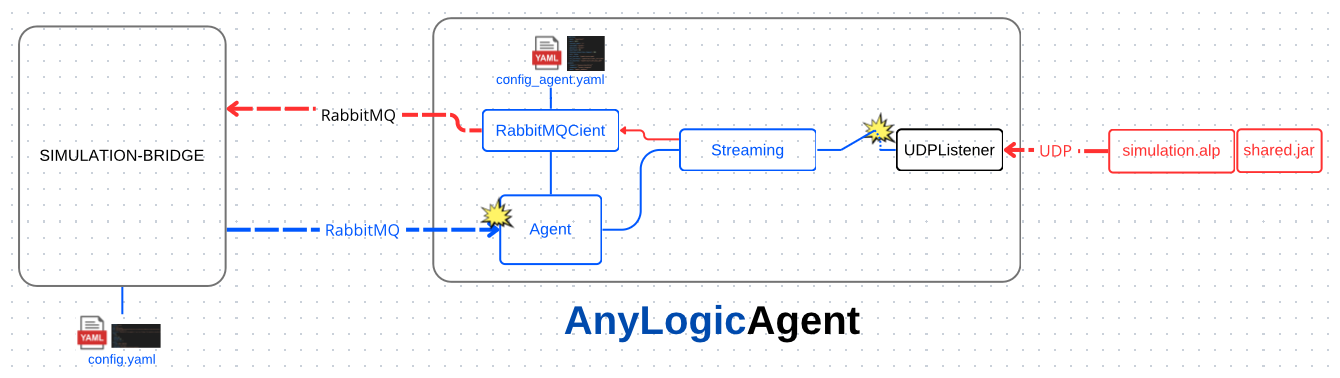
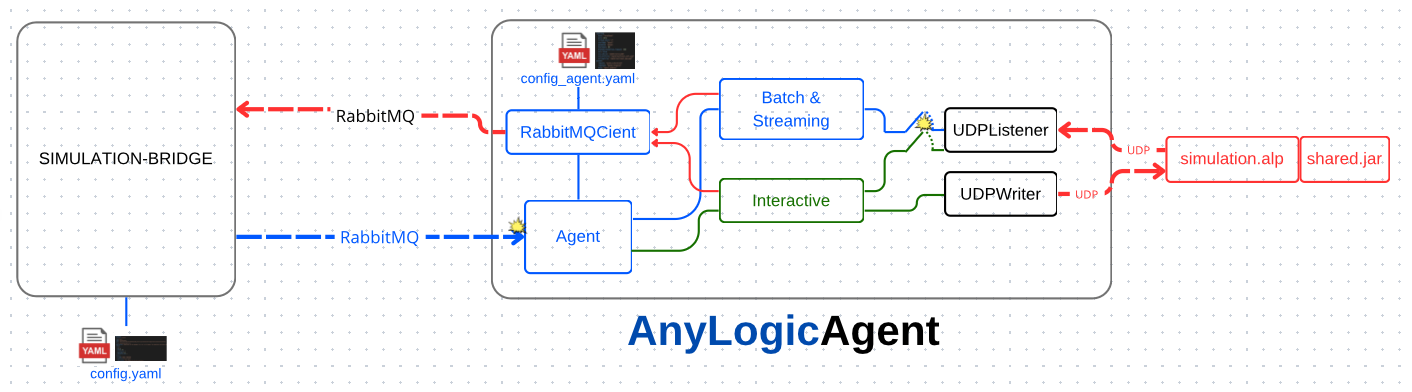
style and documentation

diff --git a/agents/anylogic/anylogic_agent/src/core/UDPwriter.py b/agents/anylogic/anylogic_agent/src/core/UDPwriter.py
@@ -29,8 +29,10 @@ class Writer:
         on_complete: Optional[Callable[[str], None]] = None,
     ) -> None:
         udp_cfg = (config.get('udp', {}) or {})
-        self.host = host if host is not None else udp_cfg.get('host', 'localhost')
-        self.input_port = input_port if input_port is not None else int(udp_cfg.get('input_port', 9877))
+        self.host = host if host is not None else udp_cfg.get(
+            'host', 'localhost')
+        self.input_port = input_port if input_port is not None else int(
+            udp_cfg.get('input_port', 9877))
         self._stop_event = threading.Event()
         self._ready_event = threading.Event()
         self._sock: Optional[socket.socket] = None
@@ -88,7 +90,7 @@ class Writer:
                 self.request_id,
             )
             self._ready_event.set()
-            
+
             def callback(ch, method, properties, body):
                 msg = yaml.safe_load(body)
                 self._send_udp(sock, msg)
@@ -102,14 +104,16 @@ class Writer:
                     msg,
                 )
 
-            channel.basic_consume(queue=command_queue, on_message_callback=callback)
+            channel.basic_consume(
+                queue=command_queue,
+                on_message_callback=callback)
             try:
                 channel.start_consuming()
             except (KeyboardInterrupt, EOFError):
-                    logger.info("Stopped by user.")
-                    channel.stop_consuming()
-                    connection.close()
-                    self.stop()
+                logger.info("Stopped by user.")
+                channel.stop_consuming()
+                connection.close()
+                self.stop()
 
     def wait_until_ready(self, timeout: float = 5.0) -> bool:
         """Wait until the socket is ready to send."""

diff --git a/agents/anylogic/anylogic_agent/src/core/interactive.py b/agents/anylogic/anylogic_agent/src/core/interactive.py
@@ -161,7 +161,8 @@ def handle_interactive_simulation(
     listener_thread.start()
 
     # Wait for both to be ready
-    if not writer.wait_until_ready(timeout=5.0) or not listener.wait_until_ready(timeout=5.0):
+    if not writer.wait_until_ready(
+            timeout=5.0) or not listener.wait_until_ready(timeout=5.0):
         writer.stop()
         listener.stop()
         writer_thread.join(timeout=2)
@@ -251,5 +252,6 @@ def _complete_interactive_session(request_id: str) -> None:
     """Finish an interactive session when the writer or listener signals completion."""
     with _SESSIONS_LOCK:
         session = _ACTIVE_SESSIONS.pop(request_id, None)
-    if session and threading.current_thread() is not session.writer_thread and threading.current_thread() is not session.listener_thread:
+    if session and threading.current_thread(
+    ) is not session.writer_thread and threading.current_thread() is not session.listener_thread:
         session.stop()

diff --git a/agents/anylogic/anylogic_agent/src/main.py b/agents/anylogic/anylogic_agent/src/main.py
@@ -94,7 +94,7 @@ def generate_default_project():
         'client/use_anylogic_agent_streaming.py': (ANYLOGIC_AGENT_RESOURCES,
                                                    'use_anylogic_agent_streaming.py'),
         'client/use_anylogic_agent_interactive.py': (ANYLOGIC_AGENT_RESOURCES,
-                                                   'use_anylogic_agent_interactive.py'),
+                                                     'use_anylogic_agent_interactive.py'),
         'client/use.yaml': (ANYLOGIC_AGENT_RESOURCES,
                             'use.yaml.template'),
         'client/simulation.yaml': (ANYLOGIC_AGENT_API,

diff --git a/agents/anylogic/anylogic_agent/resources/use_anylogic_agent_interactive.py b/agents/anylogic/anylogic_agent/resources/use_anylogic_agent_interactive.py
@@ -209,6 +209,13 @@ async def main() -> None:
     client = InteractiveUsageAnylogicAgent("dt", "anylogic", rabbit_cfg)
 
     request_id = str(uuid.uuid4())  # Unique request ID for this simulation
+
+    # Ensure the simulation type is 'interactive'
+    simulation_type = payload["simulation"]["type"]
+    if simulation_type != "interactive":
+        raise ValueError(
+            f"Simulation type must be 'interactive', got '{simulation_type}'")
+
     # Input stream source (RabbitMQ URL)
     stream_source = payload["simulation"]["inputs"]["stream_source"]
     # Extract the routing key for the stream

diff --git a/agents/anylogic/anylogic_agent/src/core/UDPlistener.py b/agents/anylogic/anylogic_agent/src/core/UDPlistener.py
@@ -28,7 +28,8 @@ class Listener:
         udp_cfg = (config.get('udp', {}) or {})
         self.host = host if host is not None else udp_cfg.get(
             'host', 'localhost')
-        self.output_port = output_port if output_port is not None else int(udp_cfg.get('output_port', 9876))
+        self.output_port = output_port if output_port is not None else int(
+            udp_cfg.get('output_port', 9876))
         self._stop_event = threading.Event()
         self._ready_event = threading.Event()
         self._sock: Optional[socket.socket] = None

diff --git a/agents/anylogic/anylogic_agent/docs/README.md b/agents/anylogic/anylogic_agent/docs/README.md
@@ -1,6 +1,10 @@
 # AnyLogic Simulation – Guidelines and Best Practices
 
-## Batch/Streaming Simulation
+## Batch & Streaming Simulation
+
+> The difference between **Batch** and **Streaming** simulation lies only in the output mode:  
+> Batch simulations produce a single result at the end, while Streaming simulations emit results continuously.  
+> The development and integration process is otherwise identical for both.
 
 A Streaming simulation is designed to receive a predefined input configuration at startup and continuously produce real-time outputs during execution. These outputs reflect the internal state of the simulation at each step and are made available to external systems (e.g., The Simulation Bridge) without halting the simulation.
 N.B. For AnyLogic there is no difference between Batch and Streaming simulation .
@@ -74,7 +78,7 @@ This creates a `template/` folder containing `template.alp`, `shared.jar`, and a
 Refer to the example files in the `examples/` folder:
 
 - `smart_factory/simulation.alp`
-- `smart_factory_4.0/simulation.alp`
+- `robot_golem_manufacturing/golem_simulation.alp`
   These files provide reference implementations to help you structure your simulation logic.
 
 ### Existing Simulations integration
@@ -90,41 +94,42 @@ To integrate an existing AnyLogic simulation with the AnyLogic Agent, follow the
 
 ## Interactive Simulation
 
-### Implement your Simulation Logic
+An interactive simulation exchanges messages with the AnyLogic Agent while the model is running. This bidirectional flow lets you react to user input or external systems in real time and push updated state back through the bridge.
 
-- **To handle incoming messages from the Agent:**
-  Implement the function:
-  ```java
-  void onMessageFromBridge(Map<String, Object> message)
-  ```
-  inside `BridgeConnection`.
+### Implement Your Simulation Logic
 
-- **To send received messages to Main**
-  ```java
-  connections.send(message, main);
-  ```
-  inside the body of the `onMessageFromBridge` function inside `BridgeConnection`.
+1. **Handle incoming messages in `BridgeConnection`:**
+   Implement the hook provided in the template so that every message from the Agent is captured.
 
-- **To handle messages passed to Main**
-  Inside the `connections` element inside Main write what to do with the message received.
+   ```java
+   void onMessageFromBridge(Map<String, Object> message)
+   ```
 
-  **Example of actions inside the `connections` element**
-  ```java
-  Map<String, Object> data = (Map<String, Object>) msg.get("data");
-  String variable = (String) data.get("variable");
+2. **Forward messages to `Main`:**
+   Inside `onMessageFromBridge`, pass the payload to the `connections` element so the rest of the model can react.
 
-  "..."
-  
-  else if (variable.equals("executionTime")) {
-    String velocity = (String) data.get("state");
-    if (velocity.equals("low")) {
-      this.executionTime = 6;
-    }
-    else if (velocity.equals("medium")) {
-      this.executionTime = 4;
-    }
-    else if (velocity.equals("high")) {
-      this.executionTime = 2;
-    }
-  }
-  ```
+   ```java
+   connections.send(message, main);
+   ```
+
+3. **Process the message inside `Main`:**
+   In the `connections` element of `Main`, read the fields you expect and update the model state accordingly. The snippet below shows how to branch on a custom `variable` field and adjust model parameters.
+
+   ```java
+   Map<String, Object> data = (Map<String, Object>) msg.get("data");
+   String variable = (String) data.get("variable");
+
+   // Custom logic
+   if ("executionTime".equals(variable)) {
+     String velocity = (String) data.get("state");
+     if ("low".equals(velocity)) {
+       this.executionTime = 6;
+     } else if ("medium".equals(velocity)) {
+       this.executionTime = 4;
+     } else if ("high".equals(velocity)) {
+       this.executionTime = 2;
+     }
+   }
+   ```
+
+Use this structure to fan out to additional variables, trigger events, or drive agents based on the messages you receive.

diff --git a/agents/anylogic/README.md b/agents/anylogic/README.md
@@ -148,6 +148,7 @@ This will create:
 
 - `config.yaml`: Configuration file for the agent
 - `client/use_anylogic_agent_streaming.py`: Example client script for streaming simulations
+- `client/use_anylogic_agent_interactive.py`: Example client script for interactive simulations
 - `client/use.yaml`: YAML configuration for the example client script
 - `client/simulation.yaml`: YAML template for defining simulations
 - `client/README.md`: Instructions for using the example client scripts
